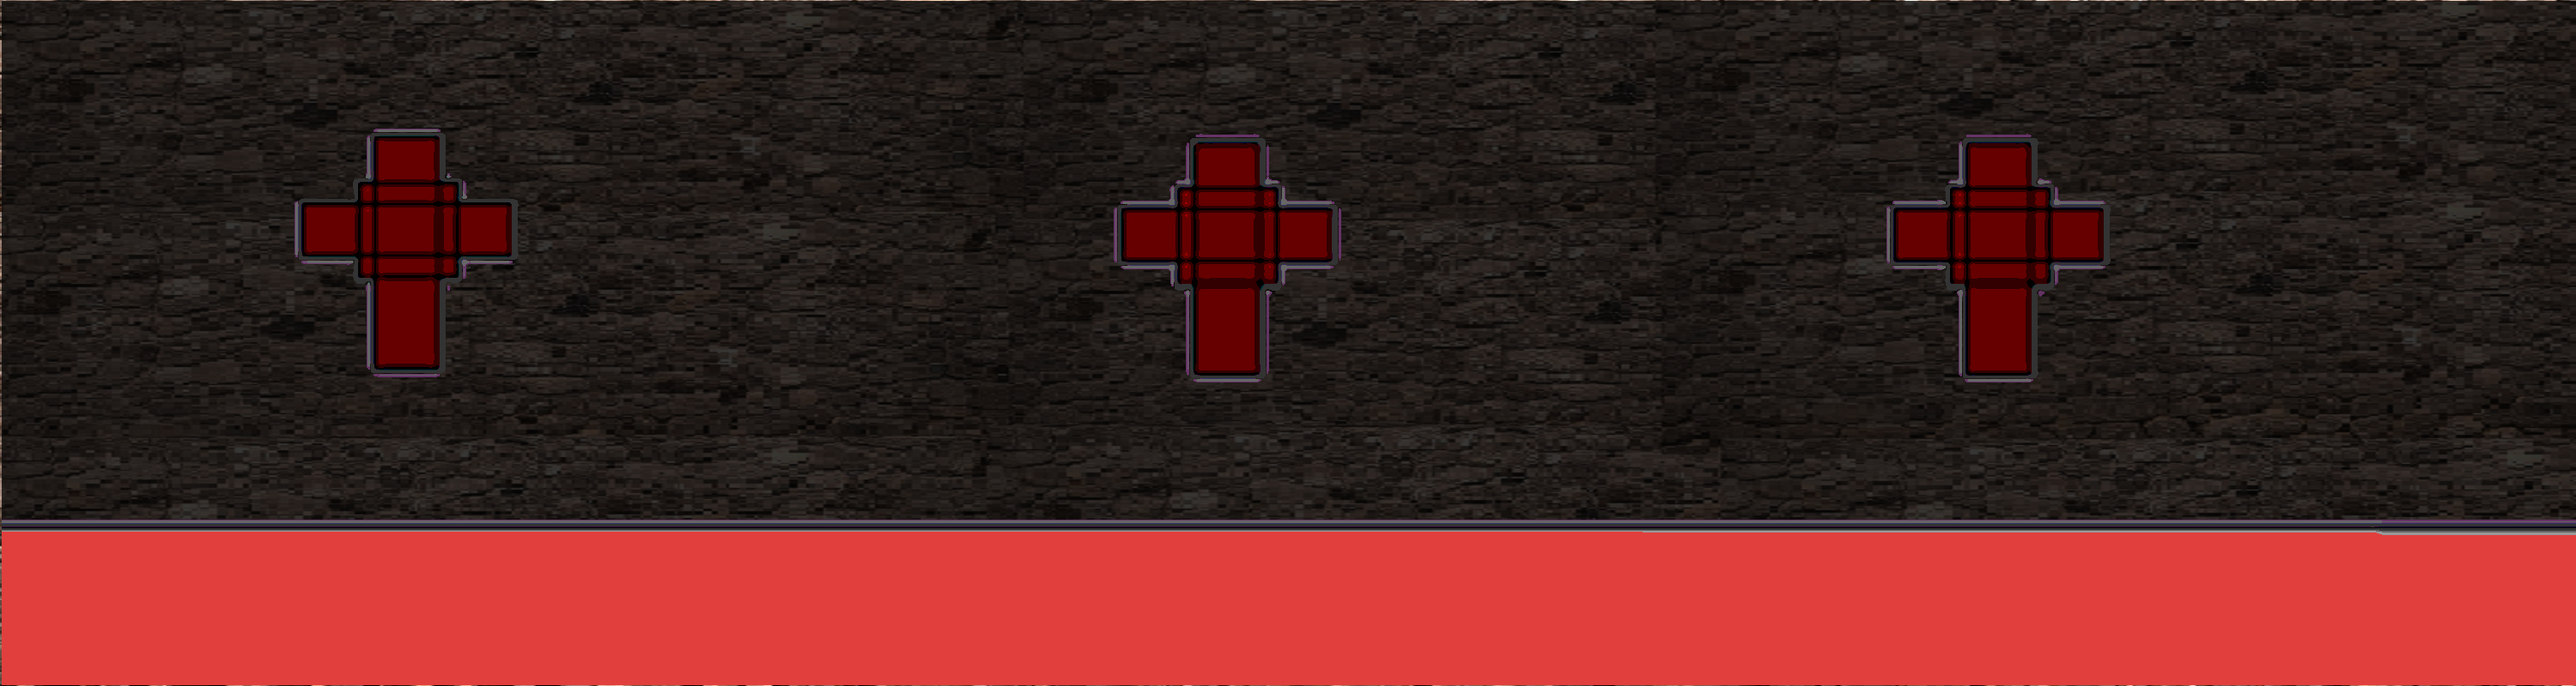
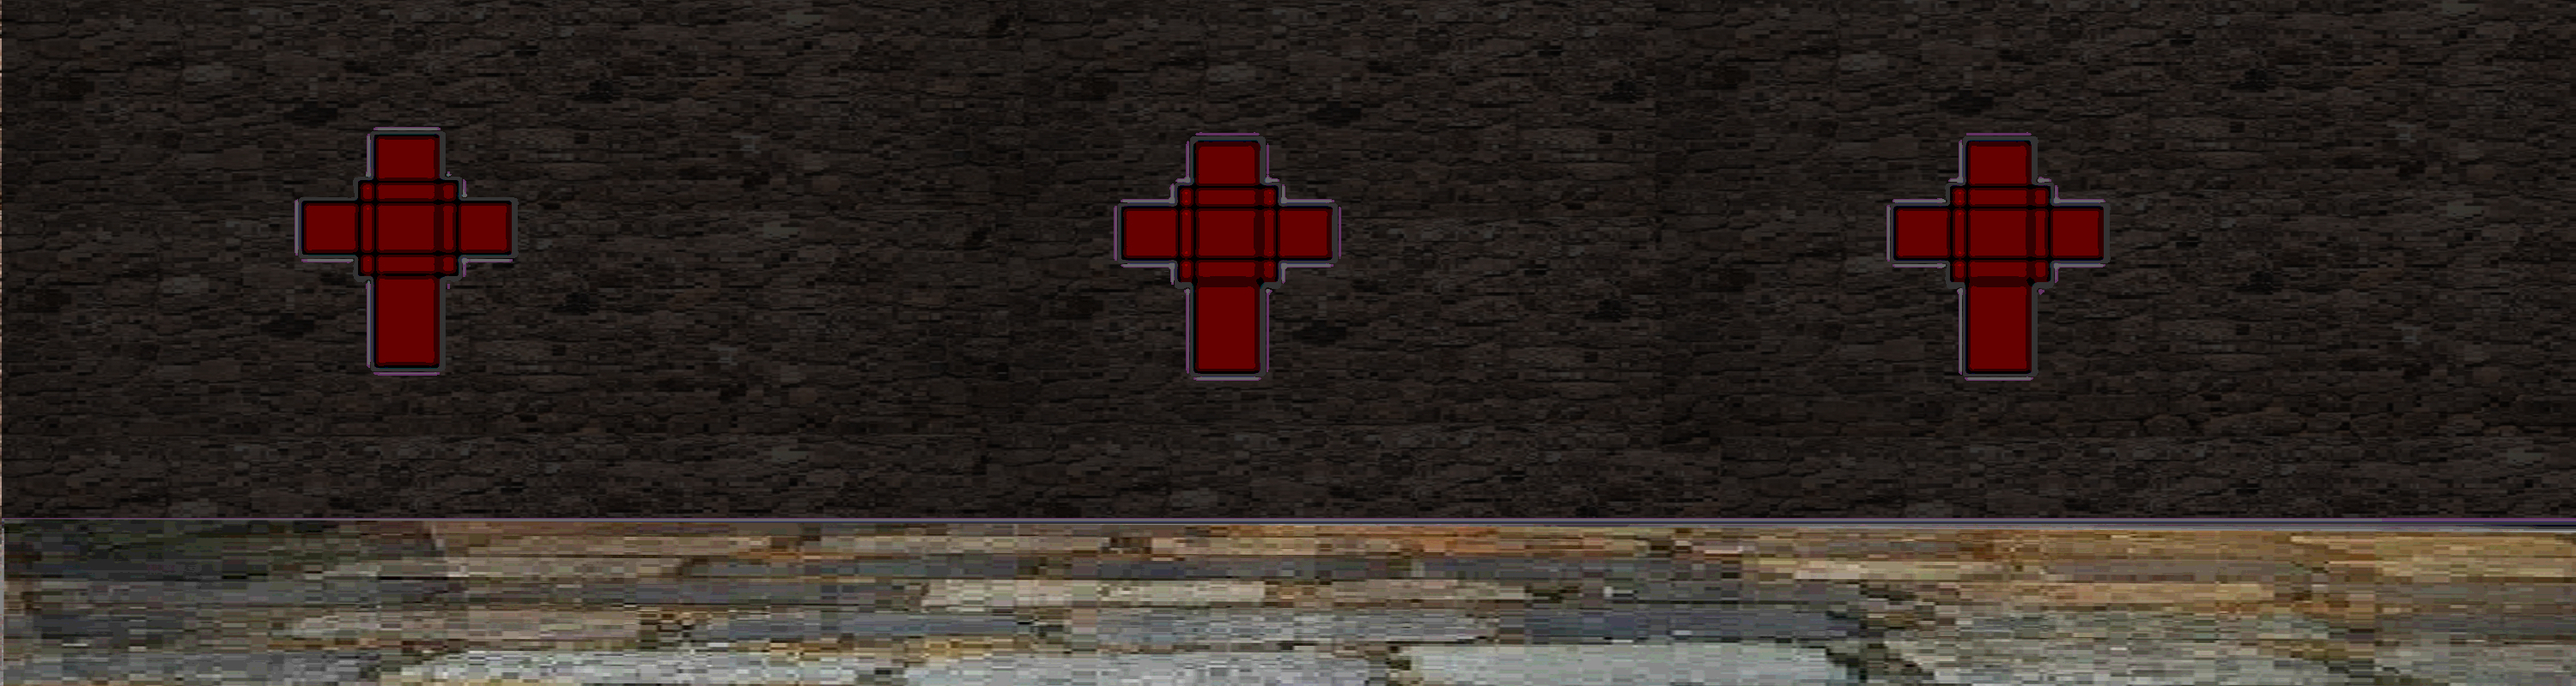
Карта готова

diff --git a/P3part.html b/P3part.html
@@ -8,8 +8,8 @@
 <style type="text/css"> 
 #floor{
 background:#1A100E;
-width:3000px;
-height:100px;
+width:4578px;
+height:103px;
 position:absolute;
 top:0;
 left:0;
@@ -17,12 +17,21 @@ z-index:3;
 }
 #floor1{
 background:#1A100E;
-width:3000px;
+width:4578px;
 height:300px;
 position:absolute;
 top:900;
 left:0;
 z-index:3;
+}
+#P2part{
+background:url('img/door.bmp');
+width:150px;
+height:400px;
+position:absolute;
+top:800;
+left:0;
+z-index:8;
 }
 #sbf{
 background:url('img/sbf.png');
@@ -74,9 +83,10 @@ z-index:6;
 </head>
 <body>
 <div id="floor"></div> 
-<div id="floor1"></div> 
+<div id="floor1"></div>
+<div id="P2part"></div> 
 <div id="sbf"></div> 
-<div class="back1"></div> 
+<div class="back1"></div>  
 <div class="human"></div>
 <div id="fr"></div> 
 <div id="table"></div> 
